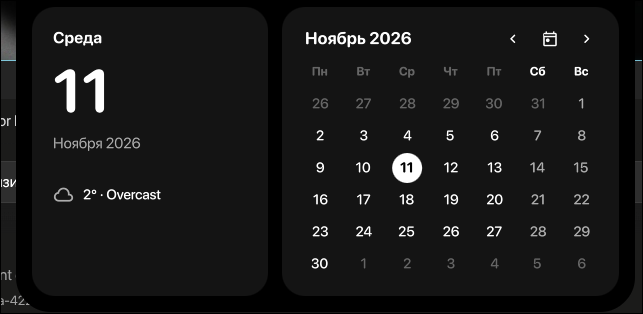
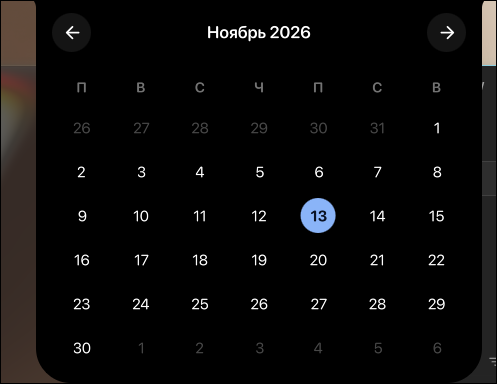
updated README.md, PANELS.md

diff --git a/docs/PANELS.md b/docs/PANELS.md
@@ -21,7 +21,7 @@ Item {
 ```
 - A panel is loaded via `Loader` only when open, so perform heavy work (Process, scanning) upon load or on demand. Keep persistent state in services.
 - Esc is handled by the host (closes the panel). If the panel handles Esc itself (e.g. exiting an editor) — set `event.accepted = true`.
-- The window grabs keyboard input (`WlrKeyboardFocus.OnDemand` + `HyprlandFocusGrab`) while the notch is expanded.
+- The window grabs keyboard input (`WlrKeyboardFocus.Exclusive`, or `OnDemand` while a tray menu is open, + `HyprlandFocusGrab`) while the notch is expanded.
 - Clicking outside the notch collapses it. After launching an app or copying content, call `host.collapse()`.
 
 ## Style
@@ -29,7 +29,7 @@ Item {
 - Font is `Theme.fontFamily`, icons use `Icon { name: "<material symbol>" }` (Material Symbols Rounded font, ligatures by name).
 - Colors: `Theme.text/text2/text3`, cards `Theme.card` (hover `Theme.cardHover`), card radius `Theme.px(18..22)`, accents `Theme.blue/green/orange/red/pink/purple/accent`.
 - Animations: `Behavior on x { Spring {} }` — iOS spring. Press — scale 0.85–0.9, hover — `Theme.cardHover`.
-- Shared components: `Icon`, `Bar` (progress bar / slider: `value`, `tint`, `interactive`, `moved(v)` signal), `Spring`, `MorphView`, `StatTile`, `MediaCard`, `VolumeCard`, `Workspaces`, `StripButton`, `Caret` (smooth text insertion point in iOS/macOS style).
+- Shared components: `Icon`, `Bar` (progress bar / slider: `value`, `tint`, `interactive`, `moved(v)` signal), `Spring`, `MorphView`, `StatTile`, `MediaCard`, `VolumeCard`, `Workspaces`, `StripButton`, `Caret` (smooth text insertion point in iOS/macOS style), `NotchShape`, `RollingClock`.
 - Interface text should be clean and consistent.
 
 ## Service Contracts Island Relies On

diff --git a/README.md b/README.md
@@ -92,7 +92,7 @@ Dynamic Notch and comprehensive Control Center for Wayland (**Hyprland**), built
   - **Weather Forecast (`weather`)**:
     - Live Open-Meteo weather with condition badges, hourly precipitation/temperature graphs, 7-day outlook, global city geocoding search (Cyrillic & Latin support), automatic IP geolocation, and persistent location caching.
   - **Calendar (`calendar`)**:
-    - Dual-card layout with localized dates, weather overview, and interactive month navigation.
+    - Compact minimalist month grid with localized weekday/month headers, today highlight, and keyboard/wheel navigation.
   - **Media Player (`media`)**:
     - MPRIS integration with smart YouTube thumbnail extraction, title cleanup, and lazy progress polling (0% idle CPU overhead).
   - **Audio Mixer (`mixer`)**:
